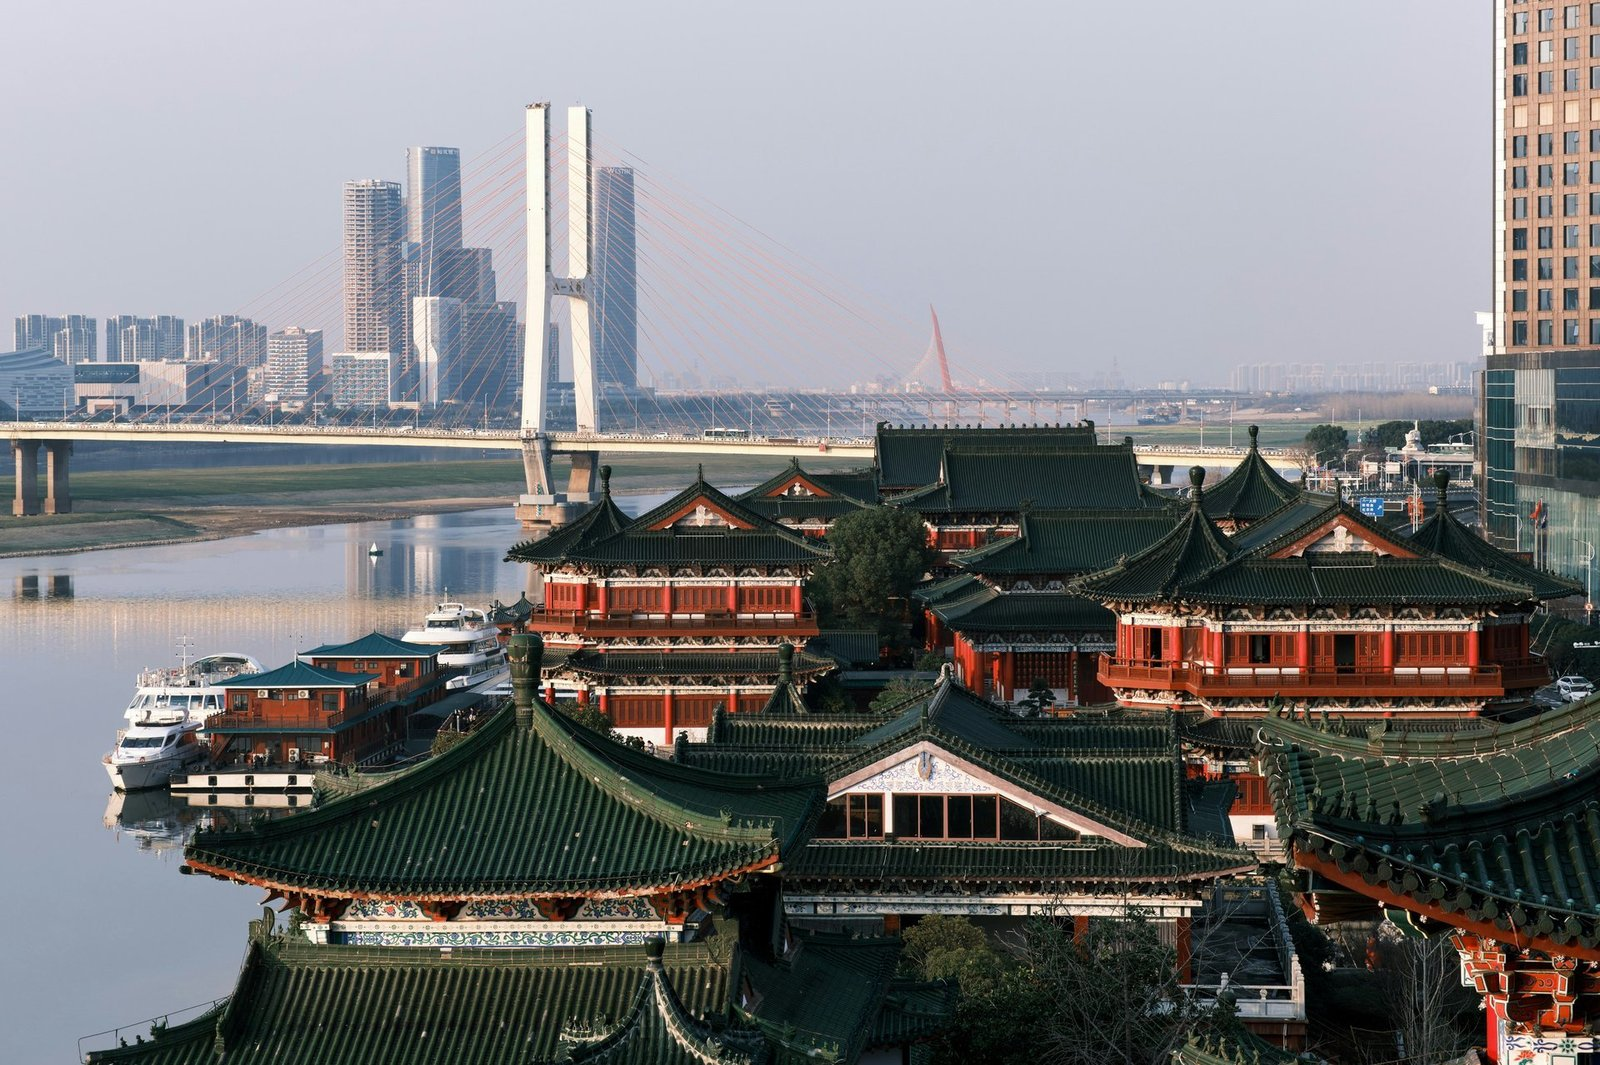
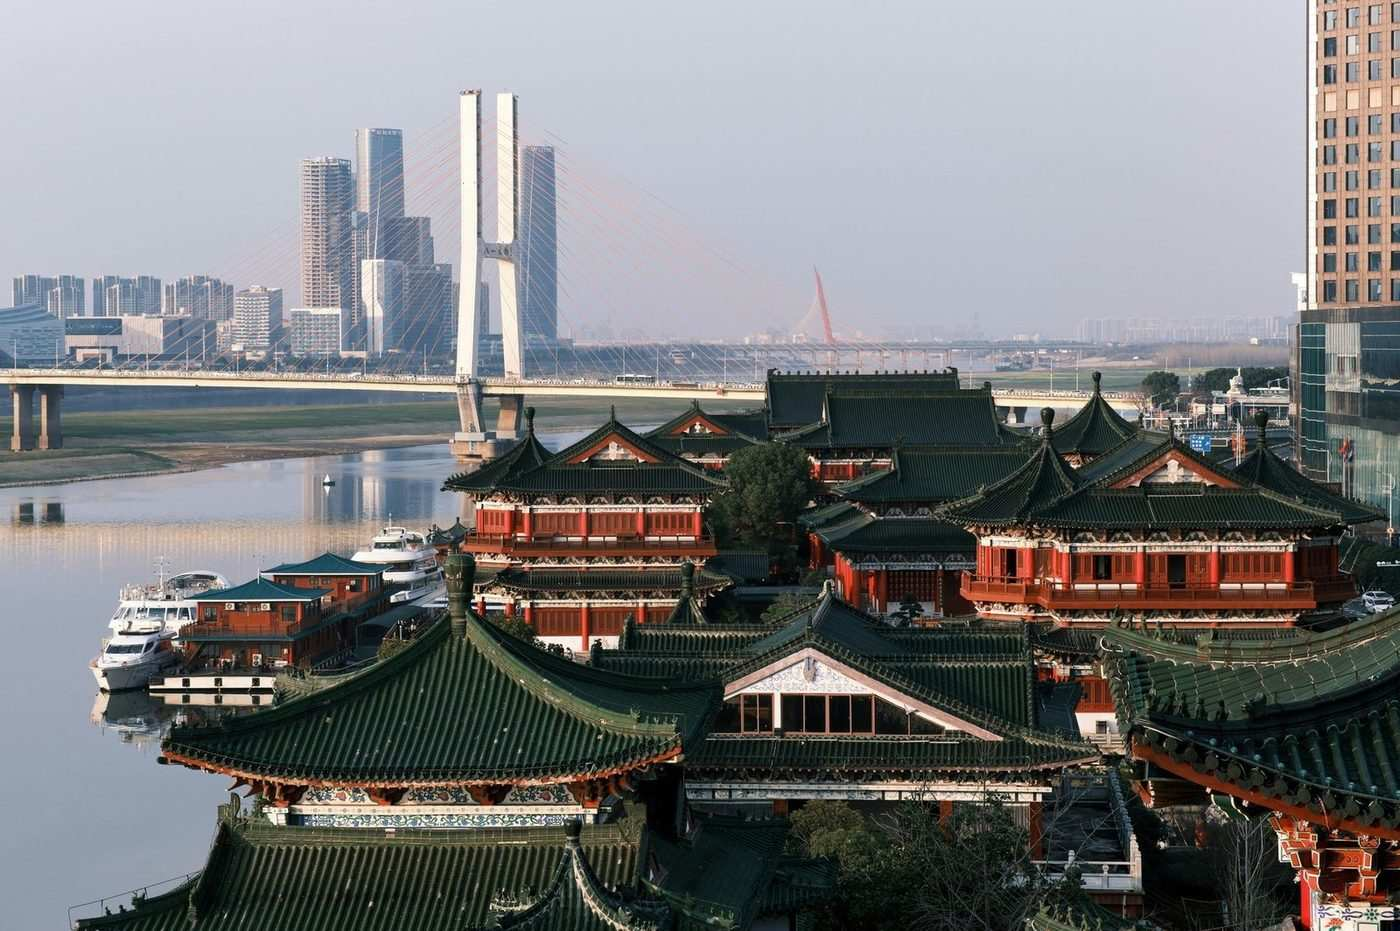
perf(images): 压缩 50 张超大资源，images/ 从 15MB → 13MB
第一轮：>150KB 的 27 个文件统一重编码（最长边 1400 / webp q80 / jpg q82）
第二轮：仍超标的 23 个自适应降质量+降尺寸，直到 ≤150KB
合计省 ~4.1 MB

安全约束（tools/cw_compress_images.py / cw_compress_images2.py）：
  - 压缩后体积必须真的变小才替换
  - 灰度标准差不得比原图掉超过 35%（防止把照片压成糊块/纯色）
  - 失败自动用原文件恢复（第一版的回滚逻辑有 bug，会把新文件当备份，已修）
  - paypal-qr.png 是二维码，PNG 重编码无收益 → 已回滚保留原图
抽查 fuzhou.webp（最激进的一档 q56）目视无劣化。
剩余 >150KB：仅 paypal-qr.png（193KB，二维码不压）

diff --git a/tools/cw_compress_images.py b/tools/cw_compress_images.py
@@ -1,0 +1,80 @@
+#!/usr/bin/env python3
+# -*- coding: utf-8 -*-
+"""压缩超大图片资源（>150KB）：等比缩到最长边 ≤1400，再按格式重编码。
+安全约束：
+  - 只动 >150KB 的文件，且生成的是新文件后原子替换
+  - 压缩后灰度标准差不得比原来掉超过 40%（防止把照片压成糊块/纯色）
+  - 压缩后体积必须真的变小才替换
+"""
+import os, sys, shutil
+from PIL import Image, ImageStat
+
+SITE = '/Users/w/Desktop/Chinawheely 10.27'
+IMGS = os.path.join(SITE, 'images')
+LIMIT = 150 * 1024
+MAXSIDE = 1400
+
+
+def stddev(im):
+    g = im.convert('L')
+    return ImageStat.Stat(g).stddev[0]
+
+
+def process(path):
+    before = os.path.getsize(path)
+    if before <= LIMIT:
+        return None
+    # 先把原文件留一份，回滚时用它恢复（不要写成 .bak 污染 images/）
+    orig_bak = path + '.orig'
+    shutil.copy2(path, orig_bak)
+    ext = os.path.splitext(path)[1].lower()
+    try:
+        im = Image.open(path)
+        im.load()
+    except Exception as e:
+        return ('SKIP-OPEN', path, before, 0, 0, str(e)[:40])
+    sd0 = stddev(im)
+    w, h = im.size
+    scale = min(1.0, MAXSIDE / max(w, h))
+    if scale < 1.0:
+        im = im.resize((max(1, int(w * scale)), max(1, int(h * scale))), Image.LANCZOS)
+    if ext == '.webp':
+        im.save(path, 'WEBP', quality=80, method=6)
+    elif ext in ('.jpg', '.jpeg'):
+        im.convert('RGB').save(path, 'JPEG', quality=82, optimize=True, progressive=True)
+    elif ext == '.png':
+        im.save(path, 'PNG', optimize=True)
+    else:
+        return ('SKIP-EXT', path, before, 0, 0, ext)
+    after = os.path.getsize(path)
+    sd1 = stddev(Image.open(path))
+    # 体积没变小 或 细节掉太多 → 回滚
+    if after >= before or (sd0 > 5 and sd1 < sd0 * 0.6):
+        shutil.copy2(orig_bak, path)          # 用原文件恢复
+        os.remove(orig_bak)
+        return ('ROLLBACK', path, before, after, round(sd1, 1),
+                f'已恢复原图 sd0={sd0:.1f}→{sd1:.1f}')
+    os.remove(orig_bak)
+    return ('OK', path, before, after, round(sd1, 1),
+            f'{w}×{h} sd={sd0:.1f}→{sd1:.1f}')
+
+
+rows = []
+for f in sorted(os.listdir(IMGS)):
+    p = os.path.join(IMGS, f)
+    if not os.path.isfile(p):
+        continue
+    if os.path.splitext(f)[1].lower() not in ('.webp', '.jpg', '.jpeg', '.png'):
+        continue
+    r = process(p)
+    if r:
+        rows.append(r)
+
+ok = [r for r in rows if r[0] == 'OK']
+bad = [r for r in rows if r[0] != 'OK']
+saved = sum(r[2] - r[3] for r in ok)
+print(f'压缩 {len(ok)} 个文件，共省 {saved/1024:.0f} KB\n')
+for r in rows:
+    print(f'  {r[0]:9s} {os.path.basename(r[1]):26s} {r[2]//1024:5d}KB → {r[3]//1024:5d}KB  {r[5]}')
+if bad:
+    print(f'\n回滚/跳过 {len(bad)} 个')

diff --git a/tools/cw_compress_images2.py b/tools/cw_compress_images2.py
@@ -1,0 +1,72 @@
+#!/usr/bin/env python3
+# -*- coding: utf-8 -*-
+"""第二轮：把仍然 >150KB 的图片压到 150KB 以内（自适应降质量/降尺寸）
+安全约束同上一轮：体积必须变小、灰度标准差不得掉超过 35%、失败自动恢复。
+"""
+import os, shutil
+from PIL import Image, ImageStat
+
+SITE = '/Users/w/Desktop/Chinawheely 10.27'
+IMGS = os.path.join(SITE, 'images')
+LIMIT = 150 * 1024
+
+
+def stddev(im):
+    return ImageStat.Stat(im.convert('L')).stddev[0]
+
+
+rows = []
+for f in sorted(os.listdir(IMGS)):
+    p = os.path.join(IMGS, f)
+    if not os.path.isfile(p):
+        continue
+    ext = os.path.splitext(f)[1].lower()
+    if ext not in ('.webp', '.jpg', '.jpeg'):
+        continue
+    before = os.path.getsize(p)
+    if before <= LIMIT:
+        continue
+
+    orig = p + '.orig'
+    shutil.copy2(p, orig)
+    try:
+        im = Image.open(orig); im.load()
+        sd0 = stddev(im)
+        w, h = im.size
+        best = None
+        # 依次尝试：缩尺寸 + 降质量组合，取第一个达标且细节没丢的
+        for scale in (1.0, 0.9, 0.82, 0.75, 0.68, 0.6):
+            for q in (80, 74, 68, 62, 56):
+                nw, nh = max(1, int(w * scale)), max(1, int(h * scale))
+                cand = im if scale == 1.0 else im.resize((nw, nh), Image.LANCZOS)
+                tmp = p + '.tmp'
+                if ext == '.webp':
+                    cand.save(tmp, 'WEBP', quality=q, method=6)
+                else:
+                    cand.convert('RGB').save(tmp, 'JPEG', quality=q, optimize=True,
+                                             progressive=True)
+                sz = os.path.getsize(tmp)
+                if sz <= LIMIT:
+                    sd1 = stddev(Image.open(tmp))
+                    if sd0 > 5 and sd1 < sd0 * 0.65:
+                        os.remove(tmp)
+                        continue          # 细节掉太多，换更保守的组合
+                    shutil.move(tmp, p)
+                    best = (scale, q, sz, sd1)
+                    break
+                os.remove(tmp)
+            if best:
+                break
+        if best:
+            rows.append(('OK', f, before, best[2], round(sd1, 1) if False else round(best[3], 1),
+                         f'{int(w*best[0])}×{int(h*best[0])} q{best[1]}'))
+        else:
+            shutil.copy2(orig, p)
+            rows.append(('KEEP', f, before, os.path.getsize(p), round(sd0, 1), '压不到 150KB 且细节会丢'))
+    finally:
+        if os.path.exists(orig):
+            os.remove(orig)
+
+for r in rows:
+    print(f'  {r[0]:5s} {r[1]:26s} {r[2]//1024:4d}KB → {r[3]//1024:4d}KB  sd={r[4]}  {r[5]}')
+print(f'\n处理 {len(rows)} 个，合计省 {sum(r[2]-r[3] for r in rows if r[0]=="OK")/1024:.0f} KB')
